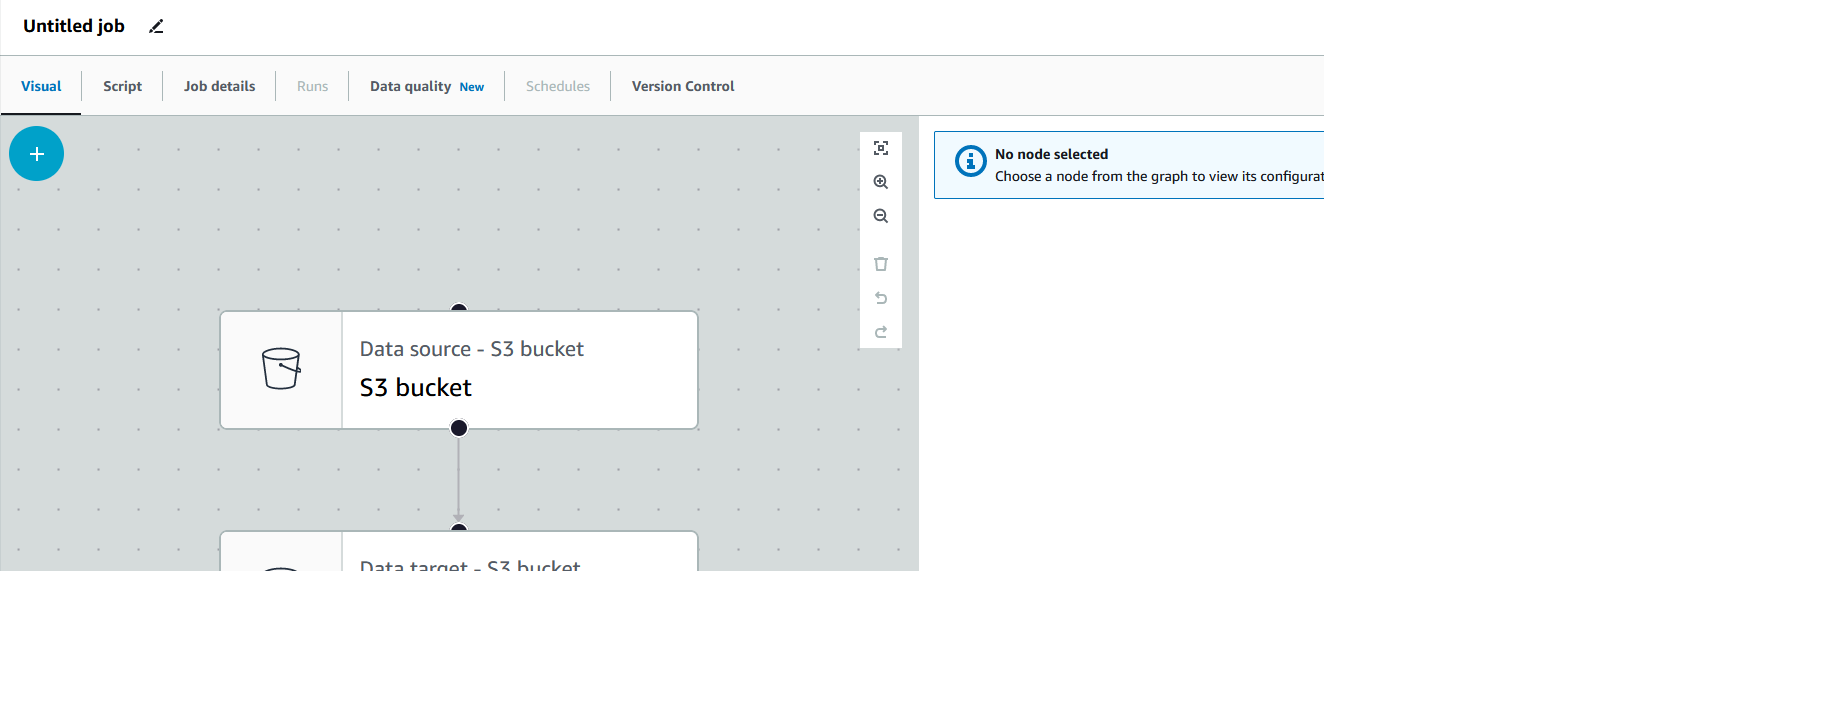
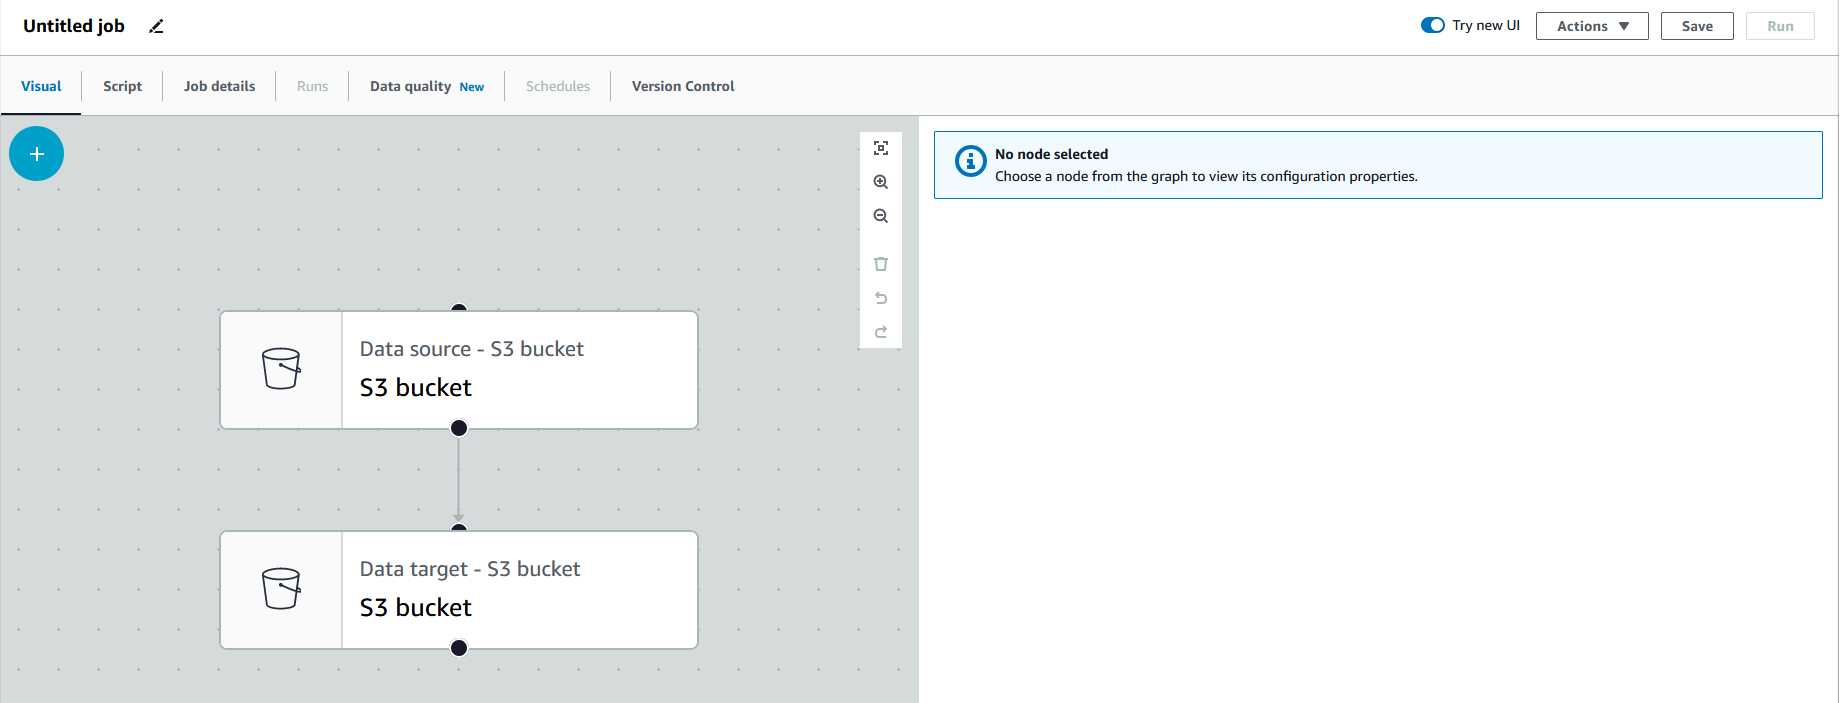
Improve visual editor screenshot and make a few more small edits

diff --git a/content/2023-09-29-aws-glue-csv-to-parquet.md b/content/2023-09-29-aws-glue-csv-to-parquet.md
@@ -1,6 +1,6 @@
 ---
-Title: Using AWS Glue to Convert CSV to Parquet
-Date: 09-29-2023 09:00:00
+Title: Using AWS Glue to Convert CSV Files to Parquet
+Date: 10-11-2023 09:00:00
 Tags: aws, glue, s3, etl, parquet, csv
 Category: Data Engineering
 Slug: aws-glue-csv-to-parquet-job
@@ -117,5 +117,6 @@ AWS Glue is a powerful tool that can be used for many different things. In this 
 A few things you can look into next with AWS Glue are:
 
 * Explore how the Data Catalog and Crawlers work to automatically detect schemas and tables for all of your data sources in AWS
-* Create a job that joins data from multiple sources
-* Create a job that uses a data connector to work with a non-AWS data source such as Snowflake
+* Use a data source other than s3, such as Kinesis, Redshift, or RDS
+* Join data from multiple sources
+* Use a data connector to work with a non-AWS data source such as Snowflake
